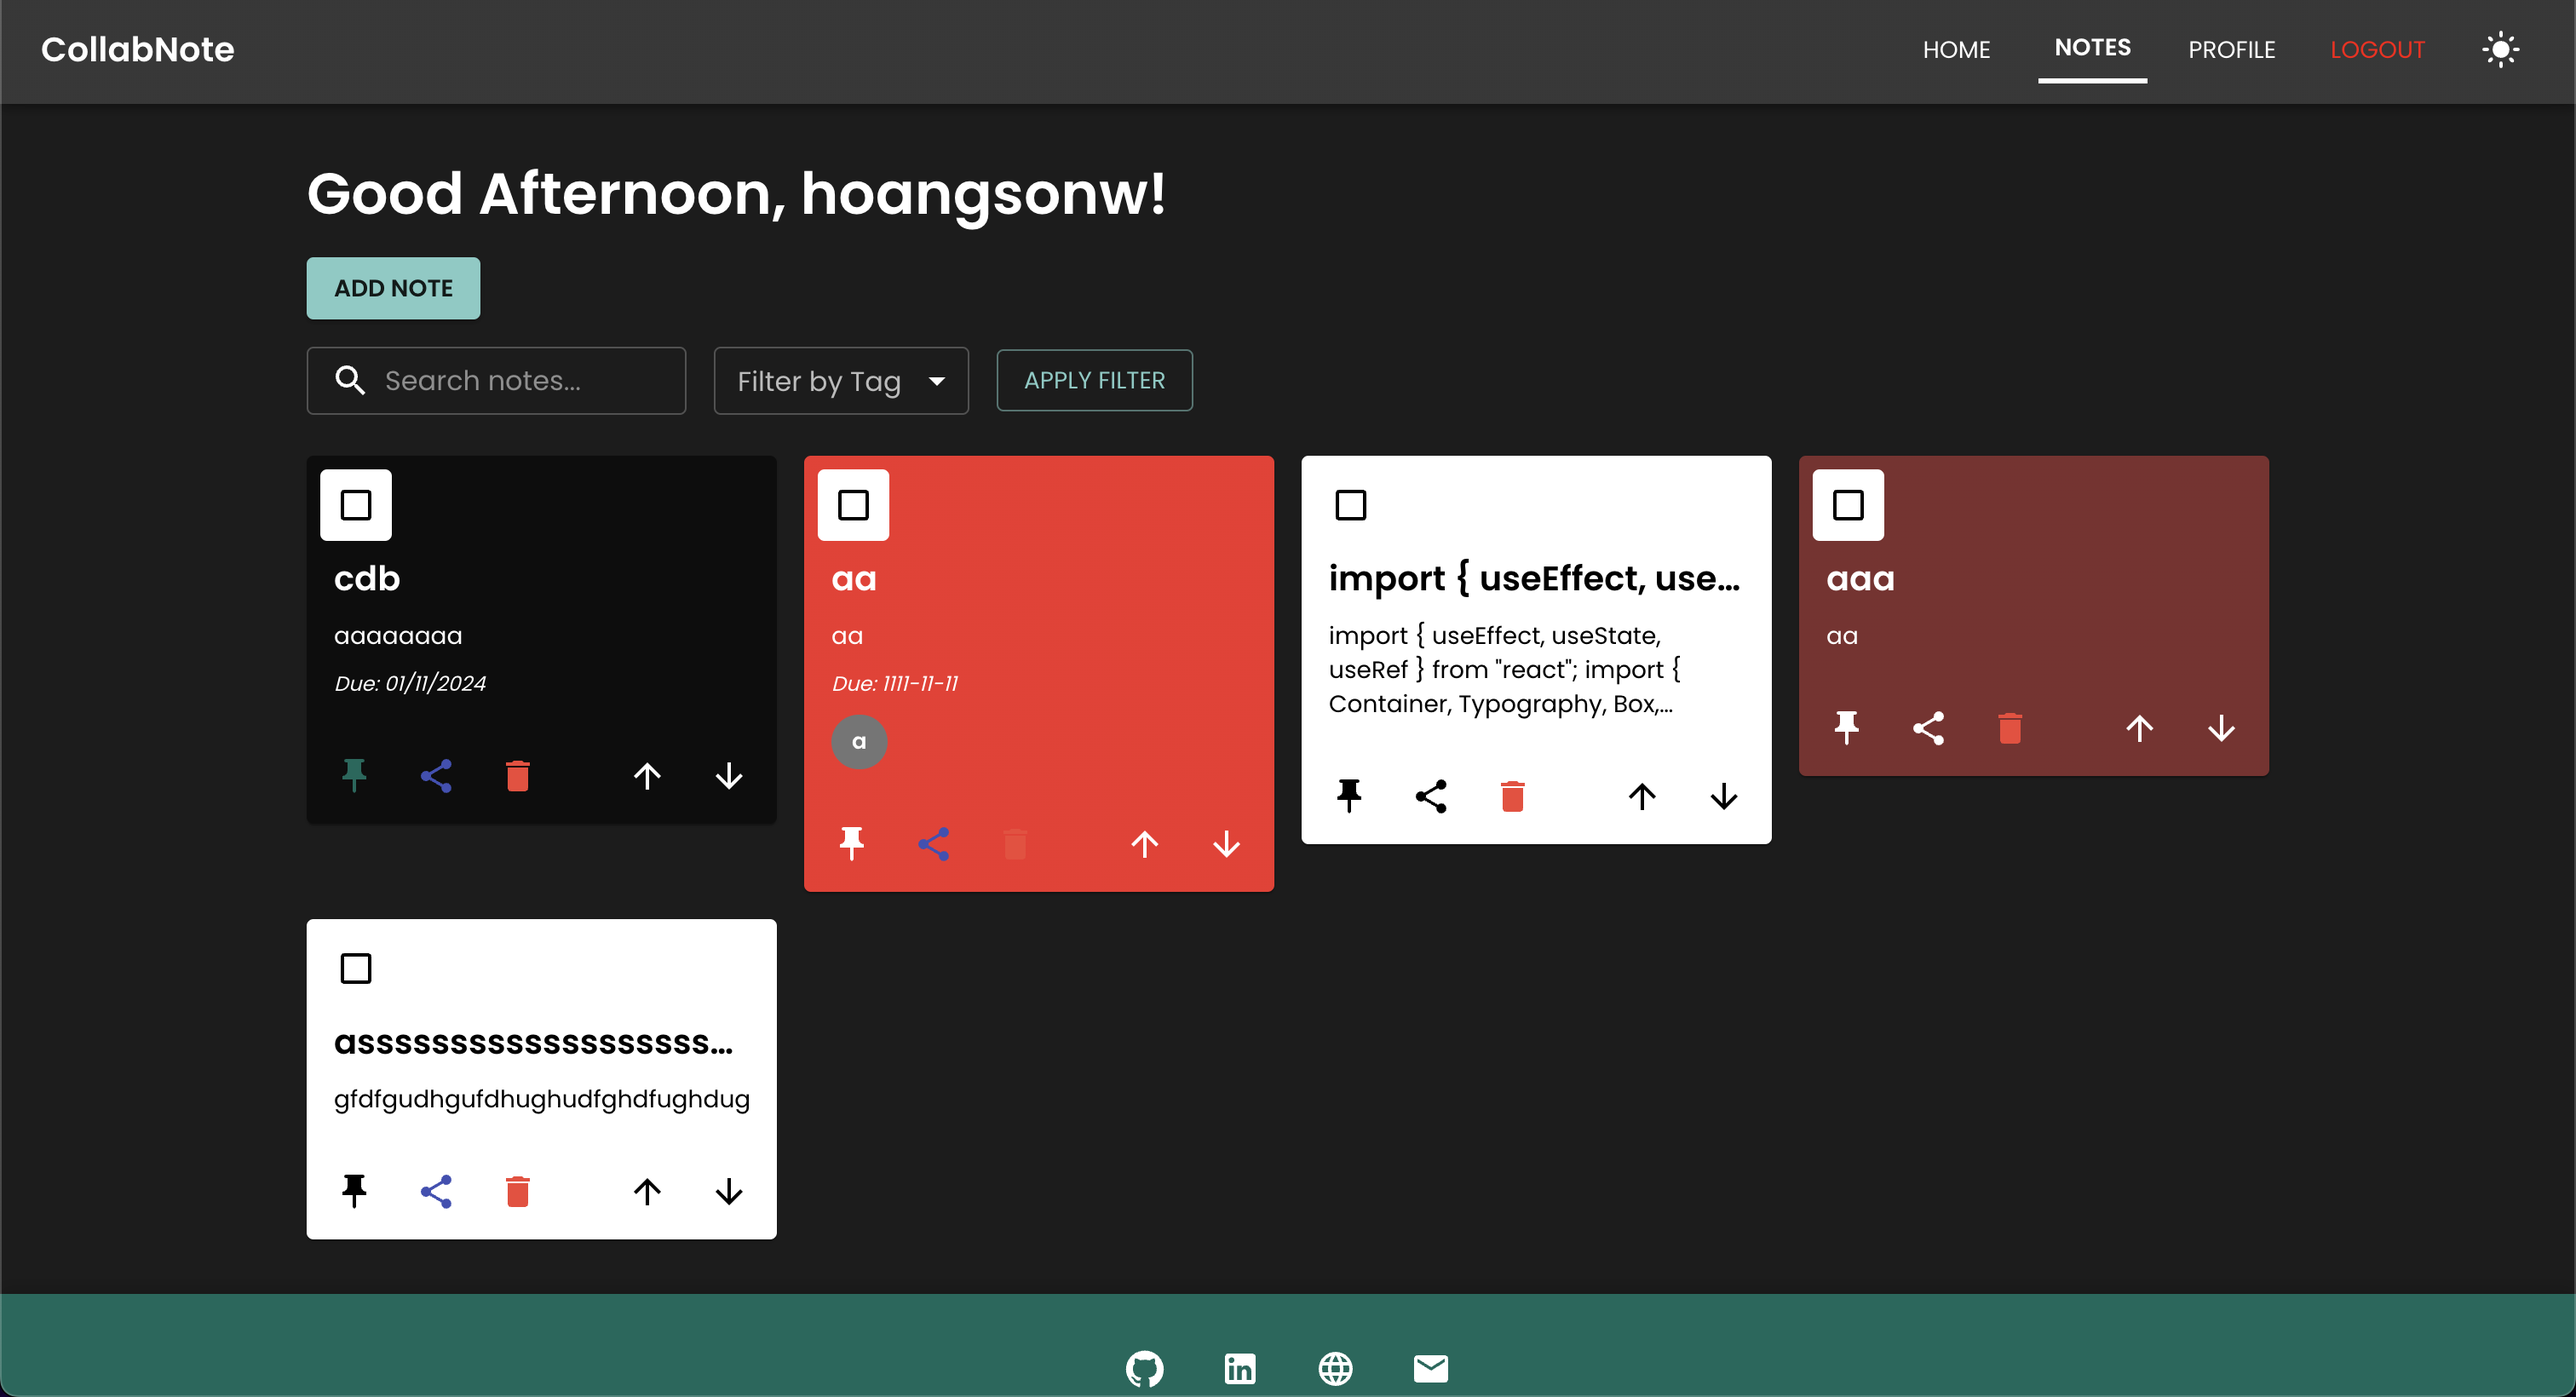
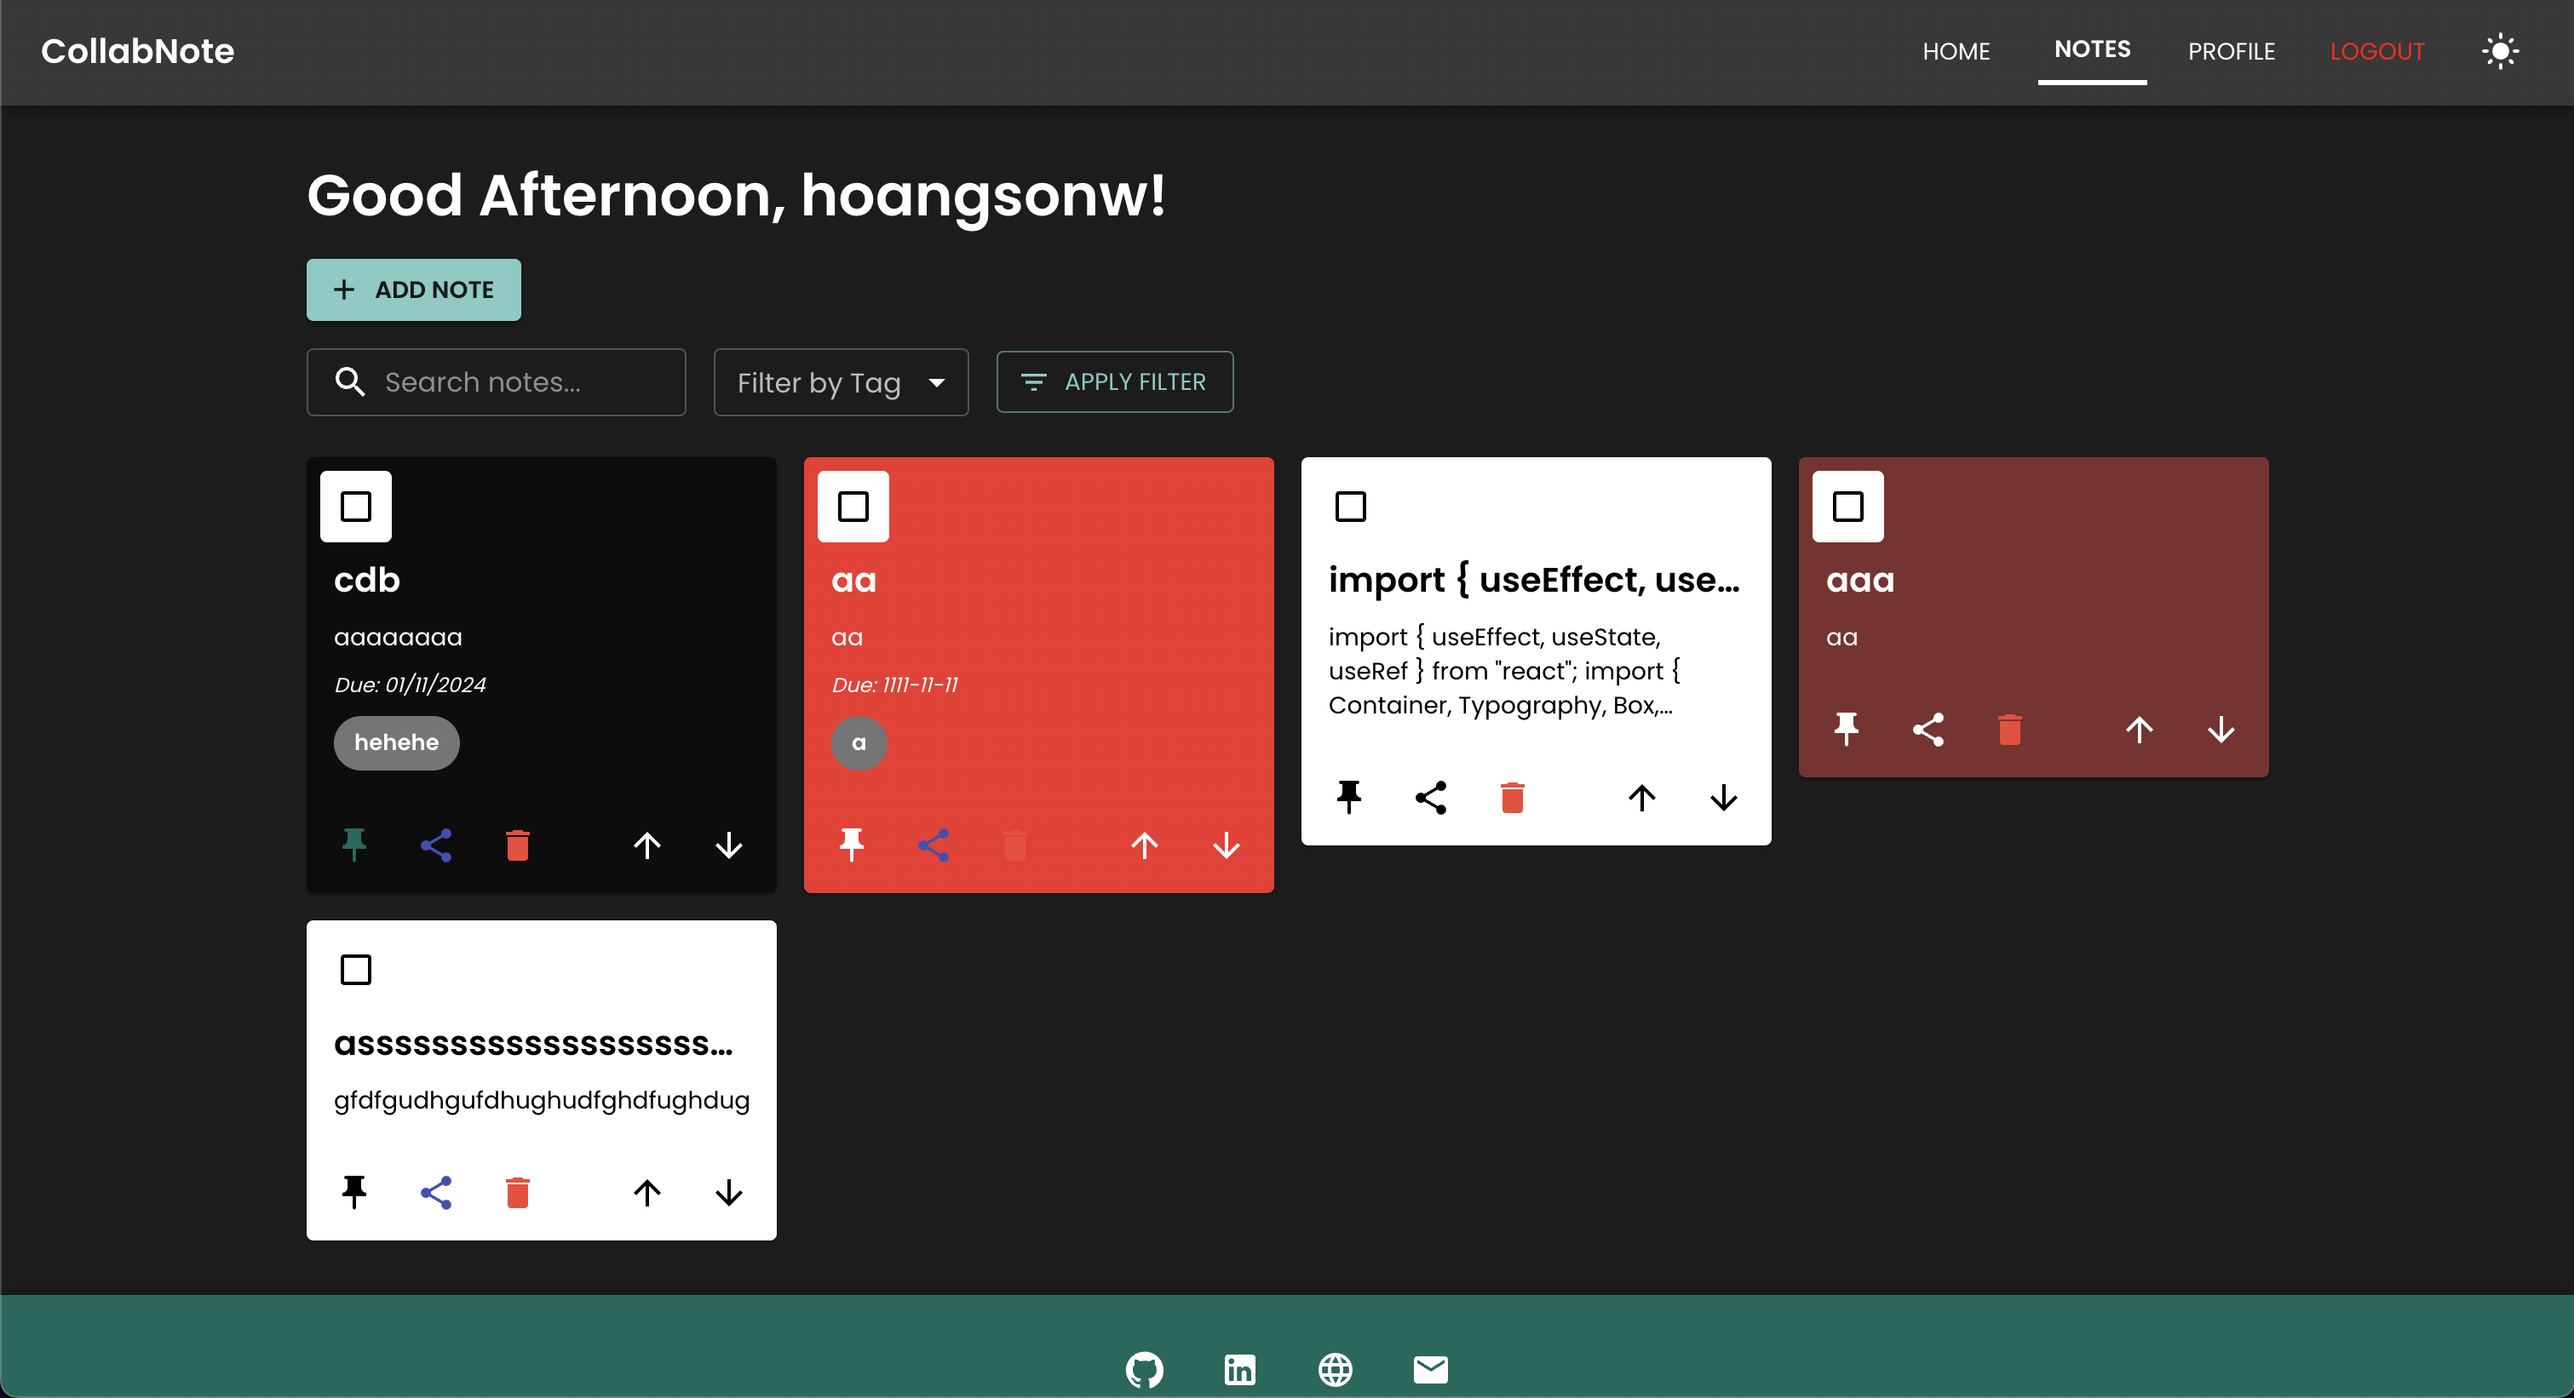
Final: Update App Business Logic

diff --git a/frontend/src/routes/NotesPage.tsx b/frontend/src/routes/NotesPage.tsx
@@ -34,7 +34,7 @@ import {
   ArrowUpward,
   ArrowDownward,
   Close,
-  FilterList
+  FilterList,
 } from "@mui/icons-material";
 import { useNavigate } from "react-router-dom";
 import LoadingOverlay from "../components/LoadingOverlay";
@@ -489,9 +489,9 @@ export default function NotesPage() {
           <Button
             variant="contained"
             onClick={handleOpenAdd}
-            sx={{ fontWeight: 600 }}
+            sx={{ fontWeight: 600, display: "flex", alignItems: "center" }}
+            startIcon={<Add />}
           >
-            <Add sx={{ mr: 1 }} />
             Add Note
           </Button>
           {selectedNotes.length > 0 && (
@@ -542,7 +542,11 @@ export default function NotesPage() {
               )}
             </Select>
           </FormControl>
-          <Button variant="outlined" onClick={applyTagFilter} startIcon={<FilterList />}>
+          <Button
+            variant="outlined"
+            onClick={applyTagFilter}
+            startIcon={<FilterList />}
+          >
             Apply Filter
           </Button>
         </Box>
